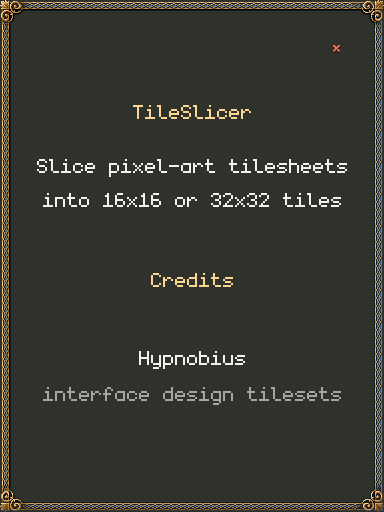
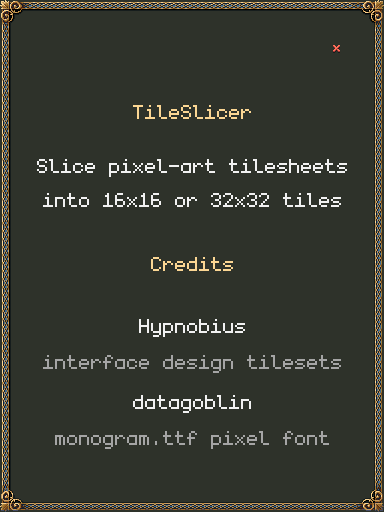
Credit datagoblin's monogram.ttf font in the About window

diff --git a/TileSlicerGUI.py b/TileSlicerGUI.py
@@ -10,7 +10,7 @@ Main window (top to bottom):
 
 About window (opened from the About button, same 384x512 decoration):
   the app name, what it does, and the credits: Hypnobius for the
-  interface design tilesets.
+  interface design tilesets, datagoblin for the monogram.ttf pixel font.
 
 Batch window (opened from the Batch button, same 384x512 decoration):
   Slice button, 32/16 size checkboxes
@@ -263,9 +263,11 @@ B_TOAST_Y = 152
 # about window: centred lines, top to bottom
 AB_HEAD_Y = 112                      # "TileSlicer"
 AB_DESC1_Y, AB_DESC2_Y = 168, 200    # what the app does
-AB_CREDITS_Y = 280                   # "Credits"
-AB_NAME_Y = 360                      # "Hypnobius"
-AB_ROLE_Y = 396                      # "interface design tilesets"
+AB_CREDITS_Y = 264                   # "Credits"
+AB_NAME_Y = 328                      # "Hypnobius"
+AB_ROLE_Y = 364                      # "interface design tilesets"
+AB_FONT_NAME_Y = 404                 # "datagoblin"
+AB_FONT_ROLE_Y = 440                 # "monogram.ttf pixel font"
 
 SIZE_RE = re.compile(r"\s*(\d{1,4})\s*[xX]\s*(\d{1,4})\s*$")
 
@@ -1175,6 +1177,8 @@ class AboutWindow(CanvasApp):
         self.credits_head = text_image("Credits", FONT_SIZE, TEXT_GOLD)
         self.name = text_image("Hypnobius", FONT_SIZE, TEXT_WHITE)
         self.role = text_image("interface design tilesets", FONT_SIZE, TEXT_GRAY)
+        self.font_name = text_image("datagoblin", FONT_SIZE, TEXT_WHITE)
+        self.font_role = text_image("monogram.ttf pixel font", FONT_SIZE, TEXT_GRAY)
 
         self.render()
 
@@ -1208,6 +1212,8 @@ class AboutWindow(CanvasApp):
         paste_centered(img, self.credits_head, 192, AB_CREDITS_Y)
         paste_centered(img, self.name, 192, AB_NAME_Y)
         paste_centered(img, self.role, 192, AB_ROLE_Y)
+        paste_centered(img, self.font_name, 192, AB_FONT_NAME_Y)
+        paste_centered(img, self.font_role, 192, AB_FONT_ROLE_Y)
         return img
 
     # ------------------------------------------------------------- events --

diff --git a/README.md b/README.md
@@ -81,6 +81,8 @@ folder next to itself.
 
 - Interface design tilesets by **Hypnobius** — the frames, buttons, banners
   and parchment the whole UI is dressed in.
+- UI font: [monogram.ttf](https://datagoblin.itch.io/monogram) by
+  **datagoblin** — the pixel font every label is drawn in.
 - Built with [Python](https://www.python.org),
   [Tkinter](https://docs.python.org/3/library/tkinter.html) and
   [Pillow](https://python-pillow.org).
